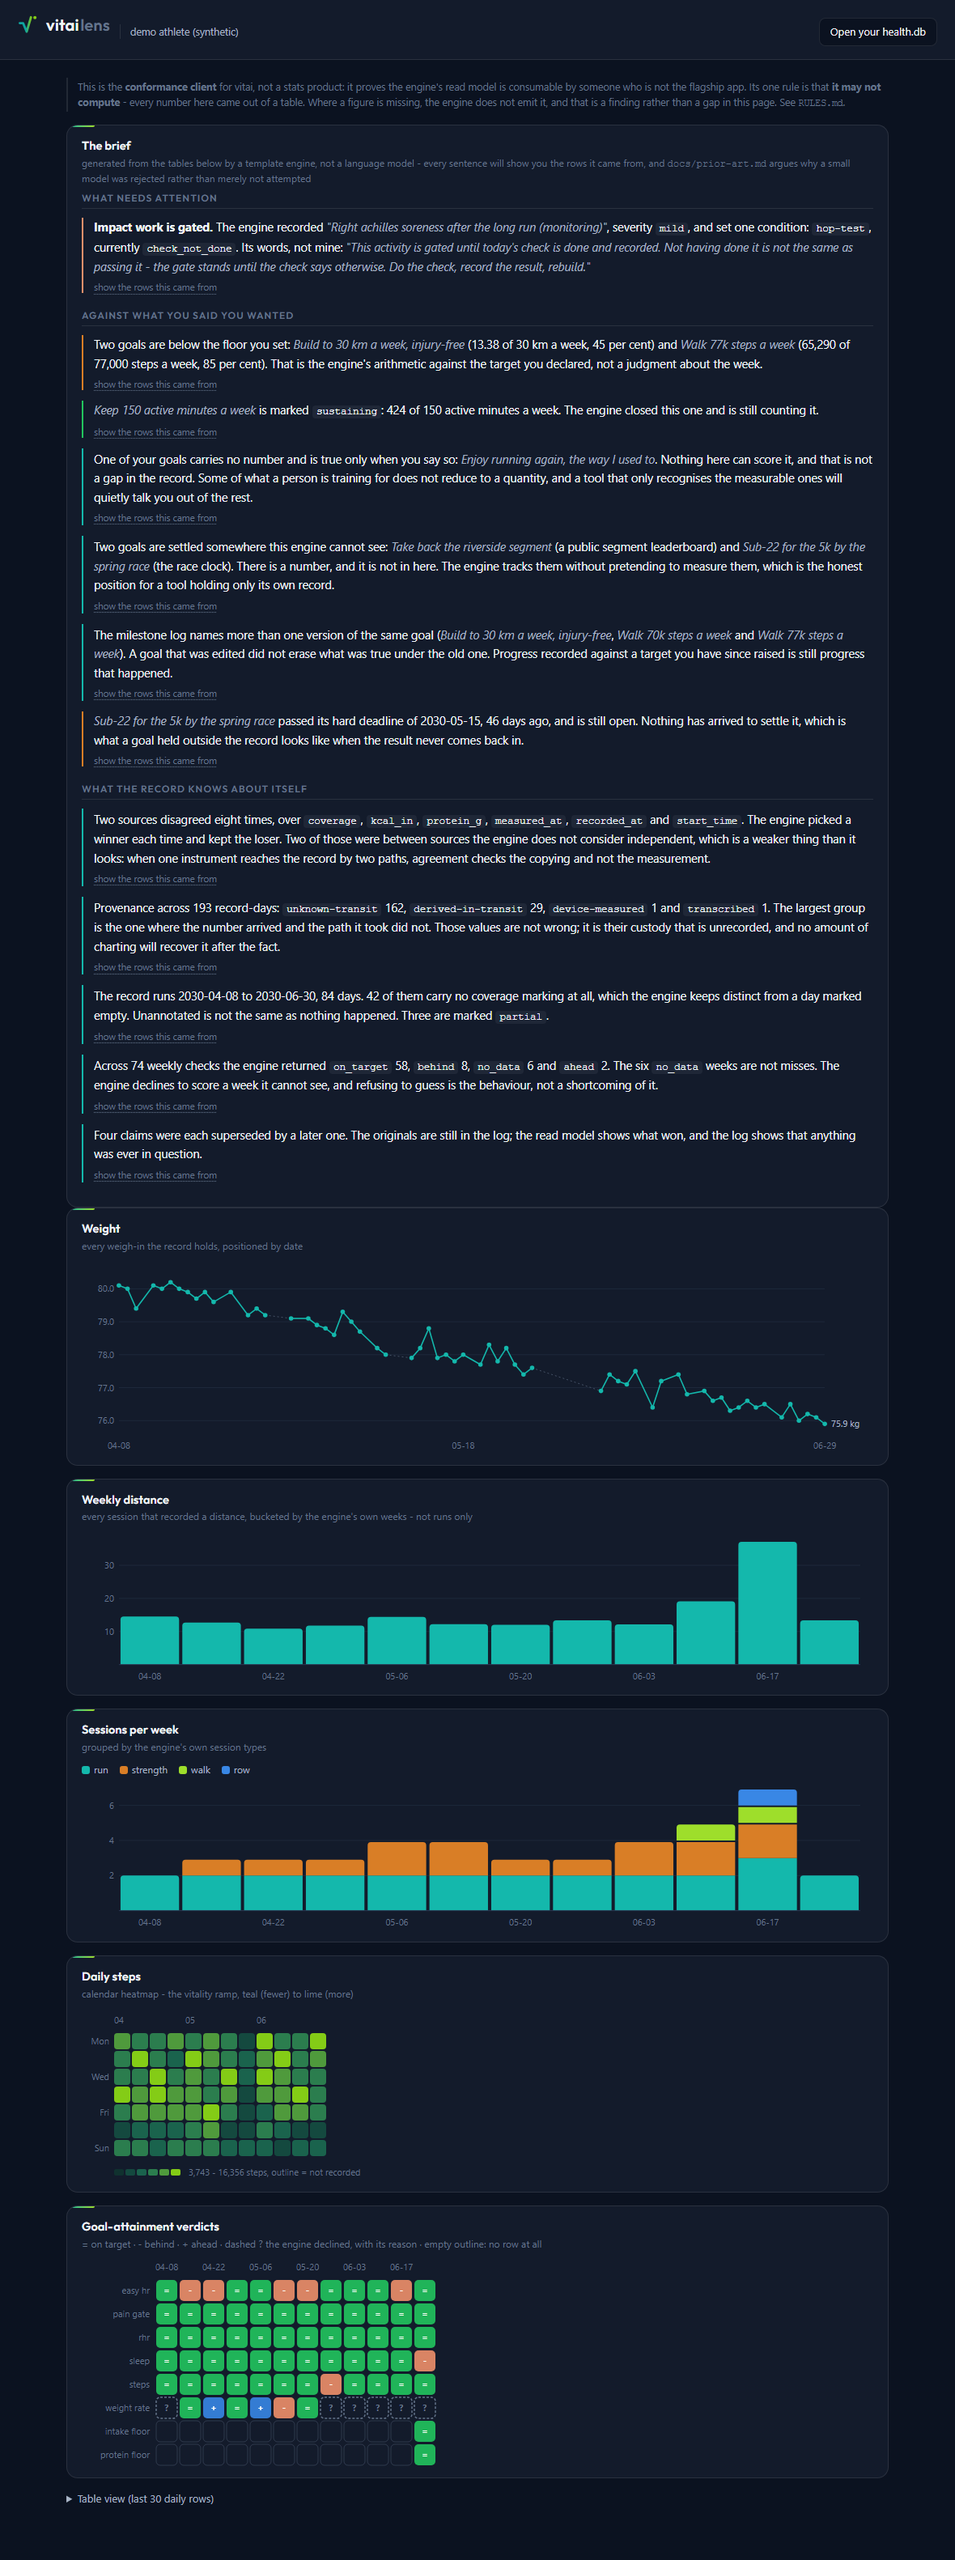
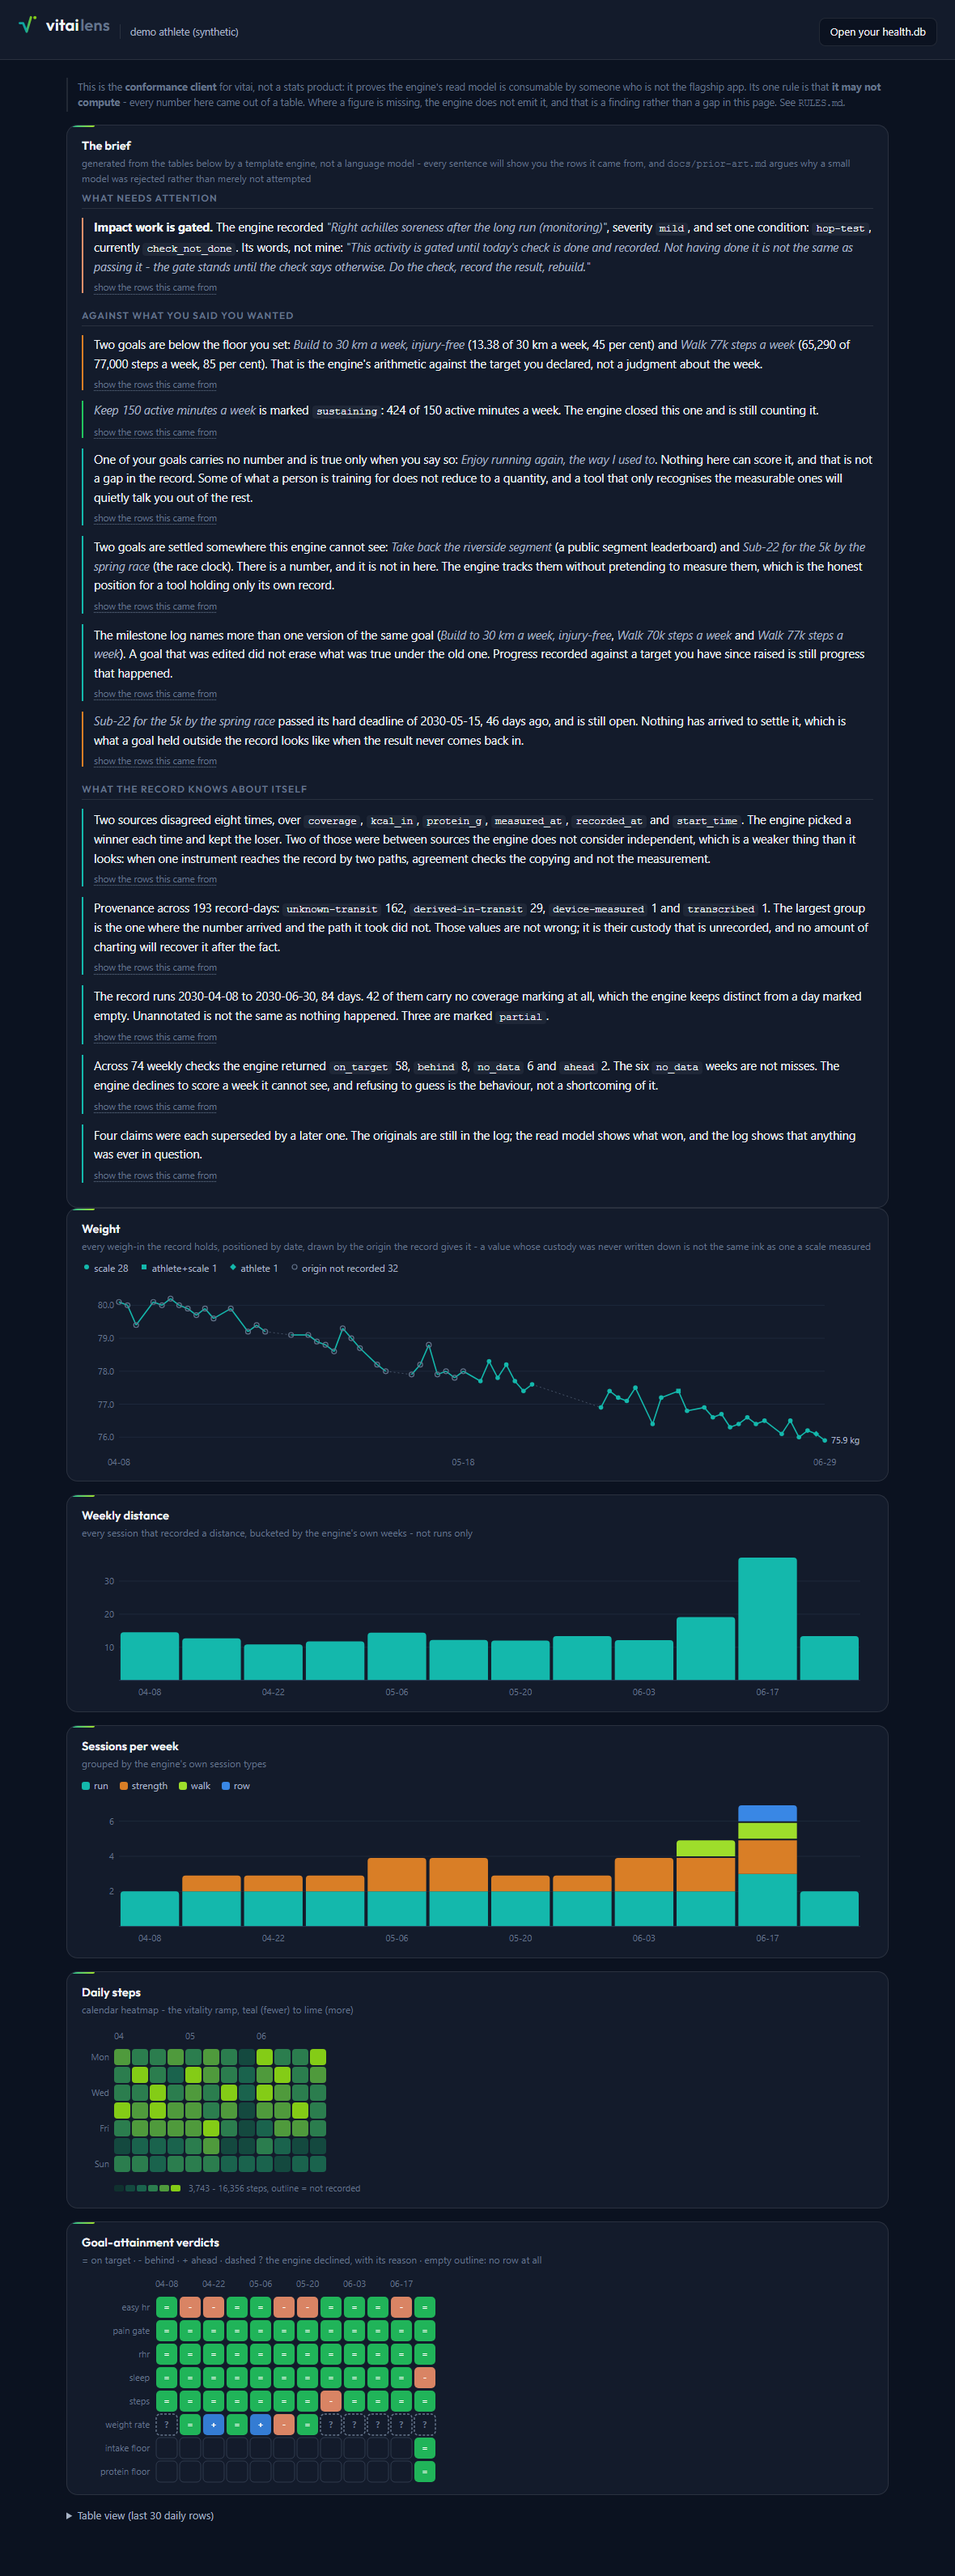
Draw weight by its origin, so custody stops being invisible (#1)
Closes #1. A modelled value and a measured one were the same ink, and so
were a scale reading and a number whose custody was never written down.

The demo makes the cost obvious once it is drawn: 32 of 62 weigh-ins carry
no origin at all, 28 come from a scale, and until now every one of them was
an identical teal dot. The chart asserted a uniform standard of evidence
across a record that does not have one. Rendered by origin, the shape of
the record changes completely - the early weeks are hollow rings and the
later ones are filled marks, because this athlete started recording where
their numbers came from partway through. That is a fact about the record
which was sitting in the database the whole time and which no amount of
looking at the old chart would have revealed.

Marks are keyed on the STORED origin value, not on any grouping invented
here, because the lens may not classify. A new origin gets its own mark and
its own legend entry rather than silently joining a bucket it was never put
in, and the legend prints the values verbatim - `athlete+scale` is what the
record says, and prettifying it here would be the lens editing the
provenance it exists to surface.

Absence is the one fixed case, and deliberately so: "no origin recorded" is
a different KIND of statement from any value, so it is hollow and muted
rather than being given a shape of its own. The value is real; it is the
custody that is missing, and the mark should not borrow the authority of a
measurement.
[…]

diff --git a/index.html b/index.html
@@ -226,7 +226,10 @@
     <div class="brief" id="brief"></div></div>
   <div class="cards">
     <div class="card"><h2>Weight</h2>
-      <p class="hint">every weigh-in the record holds, positioned by date</p>
+      <p class="hint">every weigh-in the record holds, positioned by date, drawn
+        by the origin the record gives it - a value whose custody was never
+        written down is not the same ink as one a scale measured</p>
+      <div class="legend" id="weight-legend"></div>
       <div id="c-weight"></div></div>
     <div class="card"><h2>Weekly distance</h2>
       <p class="hint">every session that recorded a distance, bucketed by the
@@ -288,6 +291,28 @@ function svgEl(tag, attrs) {
   for (const k in attrs) e.setAttribute(k, attrs[k]);
   return e;
 }
+/* Marks for provenance. The lens may not CLASSIFY, so these are keyed on the
+ * stored `origin` value itself rather than on any grouping invented here: a
+ * new origin gets its own mark and its own legend entry, and nothing silently
+ * joins a bucket it was never put in. Absence is the one fixed case, because
+ * "no origin recorded" is a different KIND of statement from any value. */
+const MARKS = ["circle", "square", "diamond", "triangle"];
+
+function markEl(shape, cx, cy, size, attrs) {
+  const r = size;
+  if (shape === "square")
+    return svgEl("rect", { x: cx - r, y: cy - r, width: r * 2, height: r * 2, ...attrs });
+  if (shape === "diamond")
+    return svgEl("polygon", {
+      points: `${cx},${cy - r * 1.3} ${cx + r * 1.3},${cy} ${cx},${cy + r * 1.3} ${cx - r * 1.3},${cy}`,
+      ...attrs });
+  if (shape === "triangle")
+    return svgEl("polygon", {
+      points: `${cx},${cy - r * 1.4} ${cx + r * 1.3},${cy + r} ${cx - r * 1.3},${cy + r}`,
+      ...attrs });
+  return svgEl("circle", { cx, cy, r, ...attrs });
+}
+
 function frame(mount, W, H) {
   const svg = svgEl("svg", { viewBox: `0 0 ${W} ${H}`, width: "100%",
                              style: `max-width:${W}px;display:block` });
@@ -311,7 +336,8 @@ function niceTicks(min, max, n = 4) {
 
 /* ------------------------------ weight chart ----------------------------- */
 function weightChart(db) {
-  const w = rows(db, "SELECT date, kg FROM weight WHERE kg IS NOT NULL ORDER BY date");
+  const w = rows(db, "SELECT date, kg, origin, source, capture, device, path " +
+                     "FROM weight WHERE kg IS NOT NULL ORDER BY date");
   if (!w.length) return;
   // The rolling mean is GONE. It was computed here, over the last 7 WEIGH-INS
   // rather than 7 days, and then drawn at full strength in the series colour
@@ -348,10 +374,57 @@ function weightChart(db) {
       "stroke-dasharray": gap > 2 ? "2 3" : "none",
       "stroke-opacity": gap > 2 ? .6 : 1 }));
   }
-  // The measurements are the primary ink now.
-  for (const r of w)
-    svg.append(svgEl("circle", { cx: x(r.date), cy: y(r.kg), r: 2.8,
-      fill: css("--series-1") }));
+  /* The measurements are the primary ink now, and they are no longer all the
+   * SAME ink. Half of this record's weigh-ins carry no origin at all, and
+   * drawing them identically to the ones a scale measured was the page making
+   * a claim about custody that the record does not support. Ordered by how
+   * often each origin appears, so the commonest keeps the plain filled dot. */
+  const originCount = new Map();
+  for (const r of w) {
+    const k = r.origin === null || r.origin === undefined ? null : String(r.origin);
+    originCount.set(k, (originCount.get(k) || 0) + 1);
+  }
+  const named = [...originCount.entries()].filter(([k]) => k !== null)
+    .sort((a, b) => b[1] - a[1]);
+  const shapeOf = new Map(named.map(([k], i) => [k, MARKS[i % MARKS.length]]));
+  const originKey = (r) =>
+    (r.origin === null || r.origin === undefined) ? null : String(r.origin);
+
+  for (const r of w) {
+    const k = originKey(r);
+    if (k === null) {
+      // Hollow and muted: the value is real, its custody is not recorded, and
+      // the mark should not borrow the authority of a measurement.
+      svg.append(svgEl("circle", { cx: x(r.date), cy: y(r.kg), r: 3,
+        fill: "none", stroke: css("--ink-mut"), "stroke-width": 1.2 }));
+    } else {
+      svg.append(markEl(shapeOf.get(k), x(r.date), y(r.kg), 2.8,
+        { fill: css("--series-1") }));
+    }
+  }
+
+  /* The legend names the stored values verbatim. No prettifying: `athlete+scale`
+   * is what the record says, and rewriting it here would be the lens editing
+   * the provenance it exists to surface. */
+  const legend = $("#weight-legend");
+  if (legend) {
+    legend.innerHTML = "";
+    const entry = (label, n, svgMark) => {
+      const span = document.createElement("span");
+      const box = document.createElementNS("http://www.w3.org/2000/svg", "svg");
+      box.setAttribute("width", "12"); box.setAttribute("height", "12");
+      box.appendChild(svgMark);
+      span.appendChild(box);
+      span.appendChild(document.createTextNode(` ${label} ${n}`));
+      legend.appendChild(span);
+    };
+    for (const [k, n] of named)
+      entry(k, n, markEl(shapeOf.get(k), 6, 6, 3, { fill: css("--series-1") }));
+    if (originCount.has(null))
+      entry("origin not recorded", originCount.get(null),
+        svgEl("circle", { cx: 6, cy: 6, r: 3, fill: "none",
+          stroke: css("--ink-mut"), "stroke-width": 1.2 }));
+  }
   const last = w[w.length - 1];                           /* direct label */
   const lab = svgEl("text", { x: x(last.date) + 8, y: y(last.kg) + 4, class: "val" });
   lab.textContent = fmt(last.kg, 1) + " kg"; svg.append(lab);
@@ -384,7 +457,14 @@ function weightChart(db) {
     }
     cross.setAttribute("x1", x(p.date)); cross.setAttribute("x2", x(p.date));
     cross.setAttribute("visibility", "visible");
-    showTip(`<span class="t">${p.date}</span><br>weigh-in <b>${fmt(p.kg)}</b> kg`,
+    const prov = [
+      ["origin", p.origin], ["source", p.source],
+      ["capture", p.capture], ["device", p.device],
+    ].filter(([, v]) => v !== null && v !== undefined)
+     .map(([k, v]) => `<span class="t">${k}</span> ${v}`).join("<br>");
+    showTip(`<span class="t">${p.date}</span><br>weigh-in <b>${fmt(p.kg)}</b> kg` +
+            (prov ? "<br>" + prov
+                  : '<br><span class="t">origin not recorded</span>'),
             ev.clientX, ev.clientY);
   });
   hot.addEventListener("mouseleave", () => { cross.setAttribute("visibility", "hidden"); hideTip(); });
